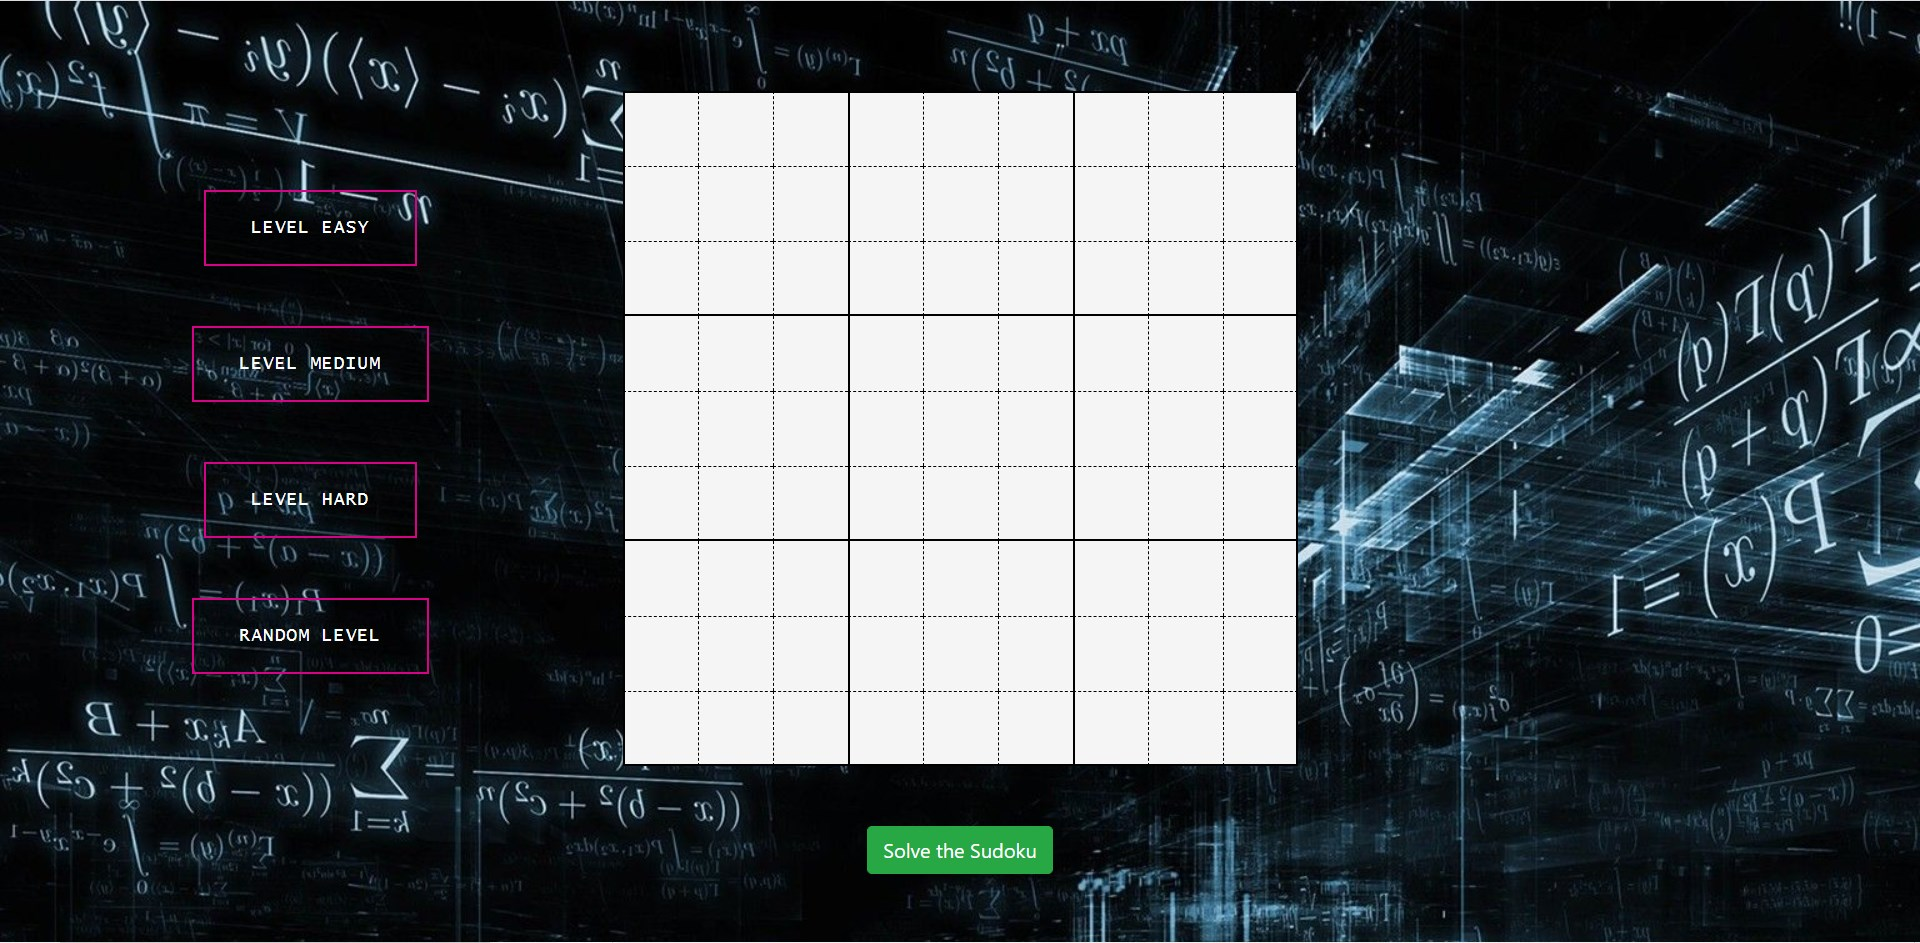
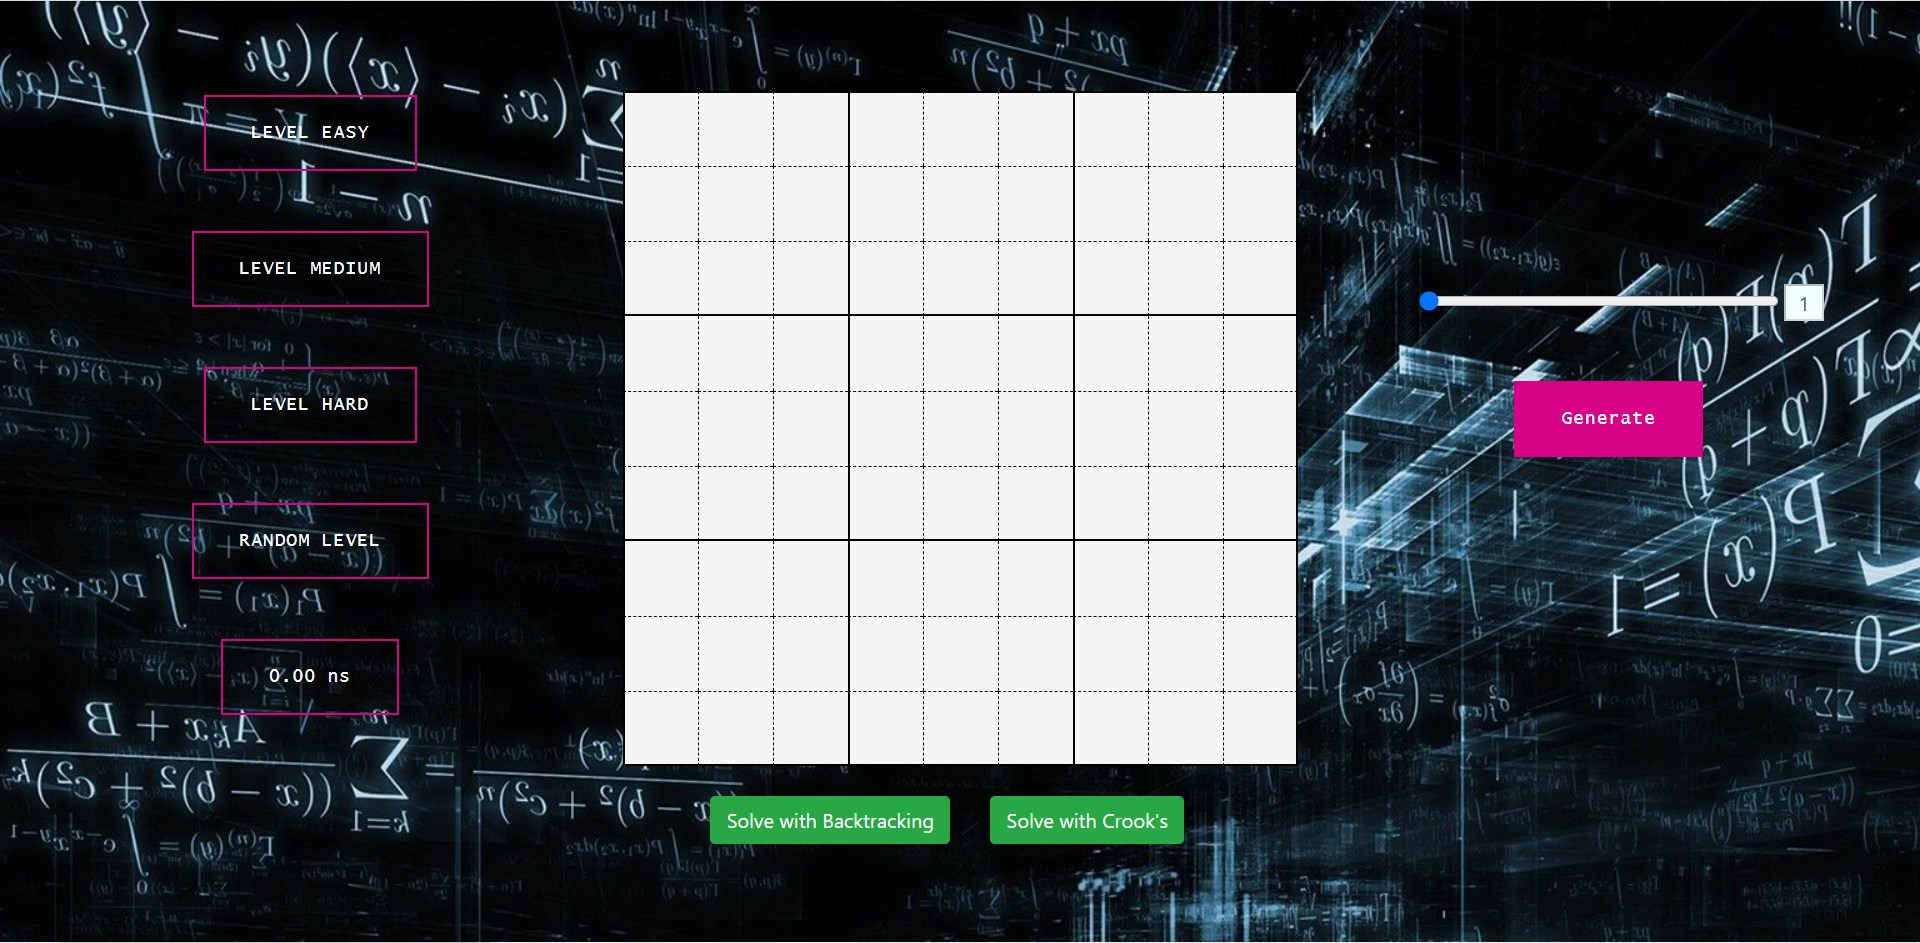
Final UI Changes Made

diff --git a/README.md b/README.md
@@ -14,7 +14,7 @@ This Web App Automatically Generates Sudoku Puzzle Based on Various Difficulty L
 - Install python and pip
 - Run pip install -r requirements.txt
 - Run python api.py
-- Open index.html
+- Open index.html 
 
 ### 🍀 Four Levels 
 
@@ -22,6 +22,11 @@ This Web App Automatically Generates Sudoku Puzzle Based on Various Difficulty L
 - Medium Level
 - Hard Level
 - Random Level
+- Time Measure by Algorithm to Solve the Puzzle
+
+<p align="center">
+  <img src="image/hard-lvl-time.png" width="700" alt="Four Levels of App and Time">
+</p>
 
 ### ➕ Intial View
 
@@ -37,34 +42,34 @@ This Web App Automatically Generates Sudoku Puzzle Based on Various Difficulty L
   <img src="image/PUZZLE_LOADED.jpg" width="700" alt="Sudoku Puzzle Loaded Image">
 </p>
 
+> You can also Generate the Sudoku, with Required Number of Spaces using Slider to Generate Given on Right Side. For Eg. Take Spaces as '8'
+
+<p align="center">
+  <img src="image/Generate_Sudoko.png" alt="Generate Button">
+</p>
+
+<p align="center">
+  <img src="image/PUZZLE_LOADED_WITH_8_SPACES.jpg" width="700" alt="Sudoku Puzzle Loaded Image 8 Spaces">
+</p>
+
 ### 🤔 Solve the Sudoku Puzzle
 
 > Click on **Solve the Sudoku** Button
 
+> Solved Using BackTracking Algorithm
+
+<p align="center">
+  <img src="image/SOLVED_USING_BACKTRACKING.png" width="700" alt="Backtracking Solved">
+</p>
+
+> Solved Using Crook's Algorithm
+
+<p align="center">
+  <img src="image/SOLVED_USING_CROOK.png" width="700" alt="Crooks Solved">
+</p>
+
 <p align="center">
   <img src="image/FINAL_SOLVED.jpg" width="700" alt="Final Solved Puzzle">
-</p>
-
-### ⌚ Time Taken to Solve
-
-> An Alert also Informs Regarding the Time Taken by Sudoku Solver to Solve the Puzzle
-
-- Easy Level
-
-<p align="center">
-<img src="image/easy-lvl-time.png" width="600" alt="Easy Level Time">
-</p>
-
-- Medium Level
-
-<p align="center">
-<img src="image/medium-lvl-time.png" width="600" alt="Medium Level Time">
-</p>
-
-- Hard Level
-
-<p align="center">
-<img src="image/hard-lvl-time.png" width="600" alt="Hard Level Time">
 </p>
 
 ## 🤝 Contributing
